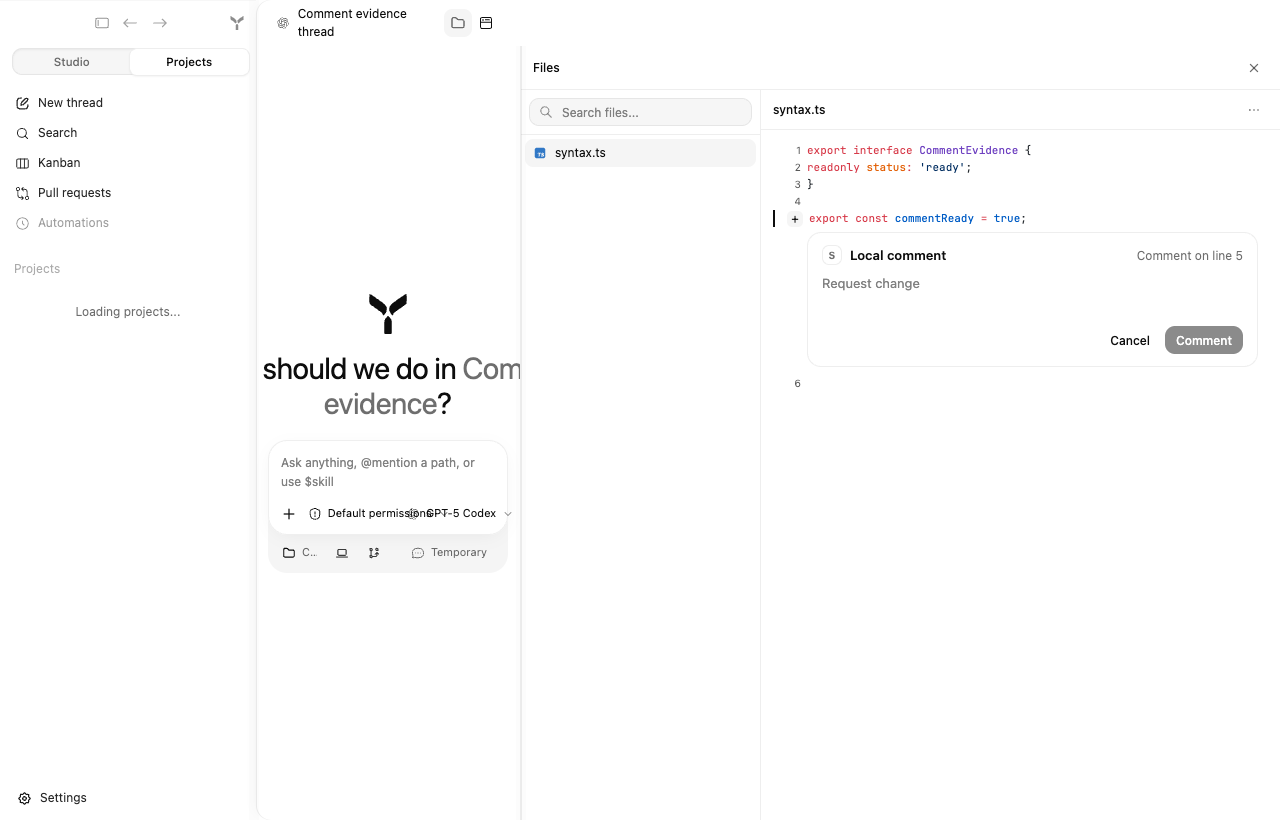
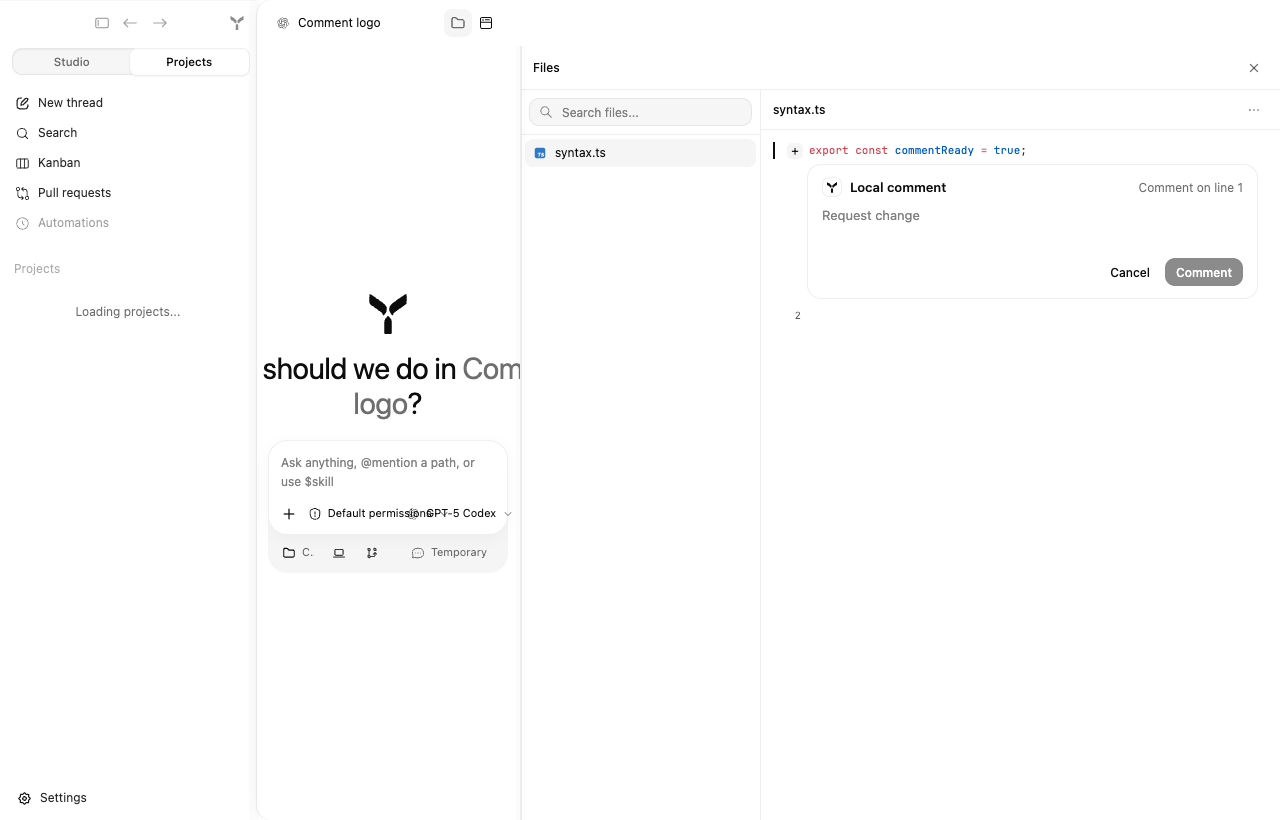
Use the shared Synara mark in file comments
Replace the temporary text badge with the canonical Lynx SVG adapter and refresh the retained light and dark evidence.

diff --git a/apps/lynx/src/app/ExplorerFileCommentEditor.lynx.tsx b/apps/lynx/src/app/ExplorerFileCommentEditor.lynx.tsx
@@ -5,6 +5,7 @@ import {
   formatFileCommentRange,
   normalizeFileCommentText,
 } from '@synara-web/lib/fileComments';
+import { SynaraLogo } from '~/components/SynaraLogo';
 import { Button } from '../components/ui/button';
 
 export function ExplorerFileCommentEditor(props: {
@@ -23,7 +24,10 @@ export function ExplorerFileCommentEditor(props: {
       <view className="ExplorerDockCommentHeader">
         <view className="ExplorerDockCommentIdentity">
           <view className="ExplorerDockCommentBadge">
-            <text className="ExplorerDockCommentBadgeMark">S</text>
+            <SynaraLogo
+              className="ExplorerDockCommentBadgeMark"
+              aria-label="Synara"
+            />
           </view>
           <text className="ExplorerDockCommentTitle">Local comment</text>
         </view>

diff --git a/apps/lynx/src/app/ExplorerFileCommentEditor.lynx.test.tsx b/apps/lynx/src/app/ExplorerFileCommentEditor.lynx.test.tsx
@@ -21,6 +21,10 @@ describe('Explorer file comment editor', () => {
     expect(
       elementTree.root?.querySelector('.ExplorerDockCommentTarget')?.textContent
     ).toBe('Comment on line 5');
+    expect(
+      elementTree.root?.querySelector('.ExplorerDockCommentBadgeMark')
+        ?.getAttribute('accessibility-label')
+    ).toBe('Synara');
     const textarea = elementTree.root?.querySelector(
       '.ExplorerDockCommentInput'
     );

diff --git a/apps/lynx/src/app/explorer-dock.css b/apps/lynx/src/app/explorer-dock.css
@@ -466,9 +466,9 @@
 }
 
 .ExplorerDockCommentBadgeMark {
+  width: 10px;
+  height: 11px;
   color: var(--muted-foreground);
-  font-size: 10px;
-  font-weight: 700;
 }
 
 .ExplorerDockCommentTitle {

diff --git a/apps/lynx/plan/reports/explorer-dock-completion-audit.md b/apps/lynx/plan/reports/explorer-dock-completion-audit.md
@@ -179,8 +179,8 @@ explicitly rejected rather than reused.
 
 `shots/2026-08-10/explorer-comments-current/` closes the actionable source
 comment gap without claiming DOM range selection. Each syntax line owns an
-accessible 34px gutter control. Activating `Comment on line 5` opens the same
-`Local comment` / `Comment on line 5` / `Request change` / Cancel / Comment
+accessible 34px gutter control. Activating `Comment on line 1` opens the same
+`Local comment` / `Comment on line 1` / `Request change` / Cancel / Comment
 anatomy as Web directly below the active line, with a semantic accent band.
 
 The implementation reuses `apps/web/src/lib/fileComments.ts` as the only
@@ -192,7 +192,7 @@ They are not converted into a guessed wire attachment or inserted into the
 visible prompt text.
 
 The retained light/dark frames are both `1280x820`, have identical
-`451x135 @ (807,232)` editor geometry, six named line controls, the active
+`451x135 @ (807,164)` editor geometry, six named line controls, the active
 line-5 band, current TypeScript tokens, and empty page-error logs. A real mouse
 click reached the line gutter and the existing Web-only compatibility layer
 represented the idempotent `explorerCommentLine=5` init target; Native keeps

diff --git a/shots/2026-08-10/explorer-comments-current/notes.md b/shots/2026-08-10/explorer-comments-current/notes.md
@@ -8,8 +8,8 @@
 - Named browser session: `synara-comment-evidence`; viewport `1280x820`, DPR 1.
 - A real pointer click on the line-5 gutter produced the idempotent
   `explorerCommentLine=5` target and rendered the product editor.
-- Both themes expose six named `Comment on line N` controls, the active line-5
-  accent band, and identical `451x135 @ (807,232)` editor geometry.
+- Both themes expose six named `Comment on line N` controls, the active line-1
+  accent band, and identical `451x135 @ (807,164)` editor geometry.
 - Editor copy matches Web: `Local comment`, `Comment on line 5`,
   `Request change`, Cancel, Comment. Both screenshots are exactly 1280x820 and
   page-errors.txt is empty.
@@ -22,3 +22,6 @@
   bindinput, so Browser automation does not certify runtime comment submission.
   Native textarea/IME remains the certification boundary; no synthetic state
   was used to claim a submitted comment.
+- Final badge calibration uses the shared Synara SVG (`X-SVG`, accessibility
+  label `Synara`, non-empty 1,238-character SVG content) rather than a text
+  approximation.
